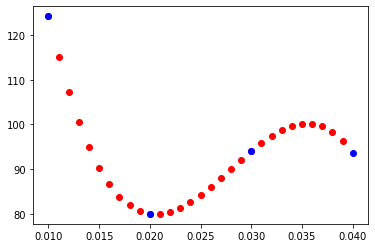
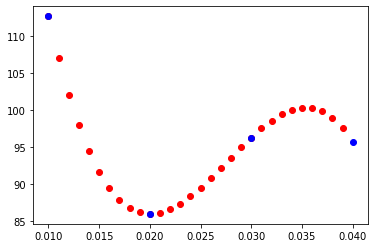
change title

diff --git a/docs/source/conf.py b/docs/source/conf.py
@@ -17,7 +17,7 @@ sys.path.insert(0, os.path.abspath('../../taylorseries'))
 
 # -- Project information -----------------------------------------------------
 
-project = 'Interpolation with Taylor Series from random scattering values'
+project = 'Polynomial-Interpolation with Taylor Series Approximate function from random scattering values'
 copyright = '2020, Yee Yang Tan'
 author = 'Yee Yang Tan'
 

diff --git a/README.md b/README.md
@@ -1,4 +1,4 @@
-# Interpolation with Taylor Series Approximation function from random scattering values (taylorseries)
+# Polynomial-Interpolation with Taylor Series Approximate function from random scattering values (taylorseries)
 
 **taylorseries** is a small package that computes the Taylor Series function from random scattering values. Normally, it is hard to achieve a function that fits to all the points on a xy-diagramm. This method helps us to figure out the function.
 
@@ -76,7 +76,7 @@ y_src
 
 
 
-    array([124.18512554,  80.03638445,  93.95848787,  93.68825581])
+    array([112.69596425,  85.95851041,  96.29335033,  95.65531046])
 
 
 
@@ -90,7 +90,7 @@ plt.plot(x_src, y_src, 'bo')
 
 
 
-    [<matplotlib.lines.Line2D at 0x7fb62a9bbaf0>]
+    [<matplotlib.lines.Line2D at 0x7f44a5830af0>]
 
 
 
@@ -152,7 +152,7 @@ consts
 
 
 
-    array([ 2.98667891e+02, -2.63737504e+04,  1.01298602e+06, -1.20438633e+07])
+    array([ 2.24550885e+02, -1.70428713e+04,  6.65813204e+05, -8.00752893e+06])
 
 
 
@@ -167,7 +167,7 @@ y_test
 
 
 
-    array([124.18512554,  80.03638445,  93.95848787,  93.68825581])
+    array([112.69596425,  85.95851041,  96.29335033,  95.65531046])
 
 
 
@@ -181,7 +181,7 @@ y_test - y_src
 
 
 
-    array([-1.70530257e-13,  0.00000000e+00,  1.70530257e-13,  0.00000000e+00])
+    array([1.42108547e-14, 2.55795385e-13, 3.97903932e-13, 6.53699317e-13])
 
 
 
@@ -212,14 +212,14 @@ y_interpolate
 
 
 
-    array([124.18512554, 115.0975628 , 107.24107712, 100.54340533,
-            94.93228424,  90.33545068,  86.68064147,  83.89559341,
-            81.90804335,  80.64572809,  80.03638445,  80.00774926,
-            80.48755933,  81.40355149,  82.68346256,  84.25502935,
-            86.04598868,  87.98407738,  89.99703226,  92.01259015,
-            93.95848787,  95.76246223,  97.35225005,  98.65558817,
-            99.60021338, 100.11386252, 100.12427241,  99.55917986,
-            98.3463217 ,  96.41343474])
+    array([112.69596425, 106.9846782 , 102.07652165,  97.92344942,
+            94.47741635,  91.69037726,  89.51428697,  87.90110032,
+            86.80277212,  86.17125721,  85.95851041,  86.11648654,
+            86.59714044,  87.35242694,  88.33430084,  89.494717  ,
+            90.78563022,  92.15899534,  93.56676718,  94.96090057,
+            96.29335033,  97.5160713 ,  98.5810183 ,  99.44014615,
+           100.04540968, 100.34876372, 100.30216309,  99.85756263,
+            98.96691715,  97.58218149])
 
 
 
@@ -232,7 +232,7 @@ plt.plot(x_src, y_src, 'bo')
 
 
 
-    [<matplotlib.lines.Line2D at 0x7fb62ccb0460>]
+    [<matplotlib.lines.Line2D at 0x7f44a7897160>]
 
 
 
